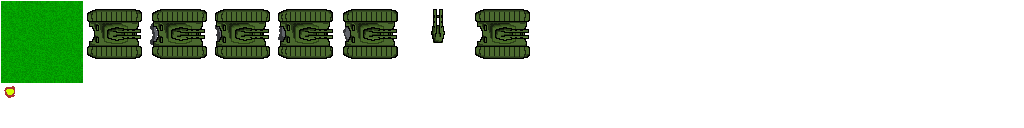
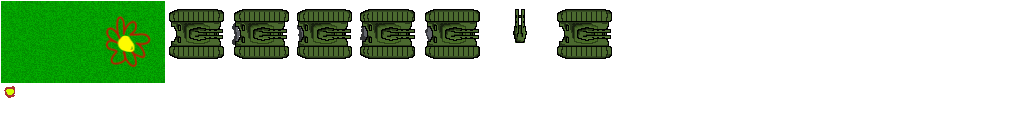
ReadyHW3

Changed region(s): [[0.0625, 0.0, 0.625, 0.6562]]

diff --git a/core/src/com/dune/game/core/BattleMap.java b/core/src/com/dune/game/core/BattleMap.java
@@ -1,20 +1,55 @@
 package com.dune.game.core;
 
 import com.badlogic.gdx.graphics.g2d.SpriteBatch;
-import com.badlogic.gdx.graphics.g2d.TextureAtlas;
 import com.badlogic.gdx.graphics.g2d.TextureRegion;
+import com.badlogic.gdx.math.Vector2;
+
+import java.util.Random;
 
 public class BattleMap {
     private TextureRegion grassTexture;
+    private TextureRegion flowerTexture;
+    private int map [][];
+    int grass = 0;
+    int flower = 1;
+    Random random;
 
     public BattleMap() {
         this.grassTexture = Assets.getInstance().getAtlas().findRegion("grass");
+        this.flowerTexture = Assets.getInstance().getAtlas().findRegion("flower");
+        map = new int[16][9];
+        random = new Random();
+        mapGenerator();
+
+    }
+
+
+    private void mapGenerator(){
+        for (int i = 0; i < 16; i++) {
+            for (int j = 0; j < 9; j++) {
+                if(random.nextInt(3) == 1){
+                    map[i][j] = flower;
+                }
+            }
+        }
+    }
+
+    public void flowerCheck(Vector2 objPosition){
+        int posX = (int) objPosition.x/80;
+        int posY = (int) objPosition.y/80;
+        if(map[posX][posY] == flower){
+            map[posX][posY] = grass;
+        }
     }
 
     public void render(SpriteBatch batch) {
         for (int i = 0; i < 16; i++) {
             for (int j = 0; j < 9; j++) {
-                batch.draw(grassTexture, i * 80, j * 80);
+                if (map[i][j] == 1){
+                    batch.draw(flowerTexture, i * 80, j * 80);
+                }else{
+                    batch.draw(grassTexture, i * 80, j * 80);
+                }
             }
         }
     }

diff --git a/core/src/com/dune/game/core/GameController.java b/core/src/com/dune/game/core/GameController.java
@@ -30,6 +30,7 @@ public class GameController {
 
     public void update(float dt) {
         tank.update(dt);
+        map.flowerCheck(tank.getPosition());
         projectilesController.update(dt);
         checkCollisions(dt);
     }
